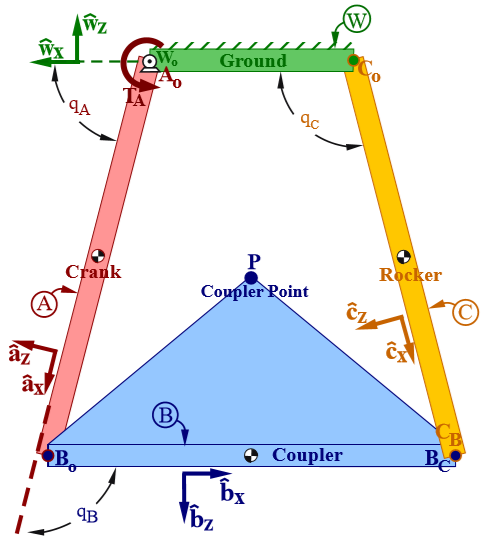
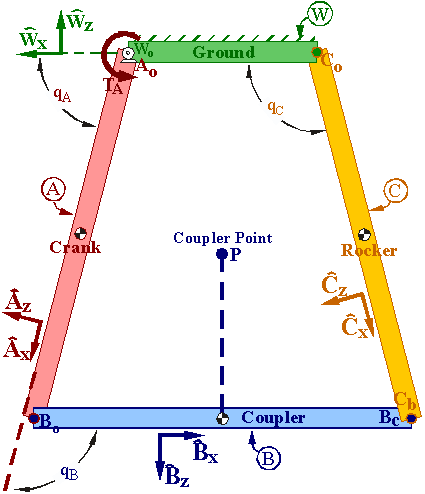
revisions from platform review

Changed region(s): [[0.0, 0.0, 1.0, 1.0]]

diff --git a/examples/multibody/four_bar/passive_simulation.cc b/examples/multibody/four_bar/passive_simulation.cc
@@ -102,11 +102,11 @@ int do_main() {
 
   // See the documentation for LinearBushingRollPitchYaw.
   // This particular choice of parameters models a z-axis revolute joint.
-  // Note: since each link is constrained to rigid motion in the X-Z plane
-  // by the revolute joints specified in the SDF, it is unnecessary for the
-  // bushing to have non-zero values for: k_y, d_y, k_0, d_0, k_1, d_1
-  // but they are left here as an example of how to parameterize a general
-  // z-axis revolute joint without other constraints.
+  // Note: since each link is constrained to rigid motion in the world X-Z
+  // plane (X-Y plane of the bushing) by the revolute joints specified in the
+  // SDF, it is unnecessary for the bushing to have non-zero values for: k_z,
+  // d_z, k_0, d_0, k_1, d_1. They are left here as an example of how to
+  // parameterize a general z-axis revolute joint without other constraints.
   const Vector3d force_stiffness_constants{k_xyz, k_xyz, k_xyz};  // N/m
   const Vector3d force_damping_constants{d_xyz, d_xyz, d_xyz};    // N·s/m
   const Vector3d torque_stiffness_constants{k_012, k_012, 0};     // N·m/rad
@@ -175,7 +175,7 @@ int do_main() {
 
 int main(int argc, char* argv[]) {
   gflags::SetUsageMessage(
-      "A four bar linkage demo demonstrating the use of a linear bushing  as "
+      "A four bar linkage demo demonstrating the use of a linear bushing as "
       "a way to model a kinematic loop. Launch drake-visualizer before running "
       "this example.");
   // Changes the default realtime rate to 1.0, so the visualization looks

diff --git a/examples/multibody/four_bar/README.md b/examples/multibody/four_bar/README.md
@@ -3,13 +3,53 @@ This planar four-bar linkage demonstrates how to use a bushing to
 approximate a closed kinematic chain. It loads an SDF model from the
 file "four_bar.sdf" into MultiBodyPlant. It handles the closed kinematic
 chain by replacing one of the four-bar's revolute (pin) joints with a
-bushing (`ForceElement::LinearBushingRollPitchYaw`) whose force  
+bushing (`ForceElement::LinearBushingRollPitchYaw`) whose force
 stiffness and damping values were approximated as discussed below.
-An alterative way to close this four-bar's kinematic chain is to "cut"
+An alternative way to close this four-bar's kinematic chain is to "cut"
 one of the four-bar's rigid links in half and join those halves with a
-bushing that has both force and torque stiffness/damping.
+bushing that has both force and torque stiffness/damping. Note: the links
+in this example are constrained to rigid motion in the world X-Z
+plane (bushing X-Y plane) by the 3 revolute joints specified in the
+SDF. Therefore it is not necessary for the bushing to have force stiffness/damping
+along the joint axis.
 
-## Four-bar linkage statics
+To run with default flags:
+
+```
+bazel run //examples/multibody/four_bar:passive_simulation
+```
+
+You should see the four-bar model oscillating passively with a small initial velocity.
+
+To change the initial velocity of `joint_WA`, q̇A in radians/second :
+```
+bazel run //examples/multibody/four_bar:passive_simulation -- --initial_velocity=<desired_velocity>
+```
+
+You can also apply a constant torque, 𝐓ᴀ, to `joint_WA` with a command line argument:
+```
+bazel run //examples/multibody/four_bar:passive_simulation -- --applied_torque=<desired_torque>
+```
+The torque is applied constantly to the joint actuator with no feedback. Thus,
+ if set high enough, you will see the system become unstable. 
+
+You can change the bushing parameters from the command line to observe their effect on
+the modeled joint. For instance, change `force_stiffness` to 300:
+ ```
+bazel run //examples/multibody/four_bar:passive_simulation -- --force_stiffness=300
+```
+And observe a gradual displacement between link *B* and link *C*.
+
+Change `force_damping` to 0:
+ ```
+bazel run //examples/multibody/four_bar:passive_simulation -- --force_damping=0
+```
+And observe the joint oscillating.
+
+Try setting `applied_torque` to 1000 and watch how the large forces interact with the bushing stiffness.
+
+
+## Four-bar linkage model
 
 The figure below shows a planar four-bar linkage consisting of 
 frictionless-pin-connected uniform rigid links *A, B, C* and ground-link *W*.
@@ -17,13 +57,13 @@ frictionless-pin-connected uniform rigid links *A, B, C* and ground-link *W*.
 - Link *B* connects to *A* and *C* at points *B*ₒ and *B*c
 - Link *C* connects to *W* and *B* at points *C*ₒ and *C*ʙ
 
-Right-handed orthogonal unit vectors **âᵢ, b̂ᵢ, ĉᵢ, ŵᵢ** 
+Right-handed orthogonal unit vectors **Âᵢ B̂ᵢ Ĉᵢ Ŵᵢ** 
 (*i = x,y,z*) are fixed in *A, B, C, W,* with:
-- **â**𝐱 directed from *A*ₒ to *B*ₒ
-- **b̂**𝐱 directed from *B*ₒ to *B*c
-- **ĉ**𝐱 directed from *C*ₒ to *C*ʙ
-- **ŵ**𝐳 vertically-upward.
-- **â**𝐲 = **b̂**𝐲 = **ĉ**𝐲 = **ŵ**𝐲 parallel to pin axes
+- **Â**𝐱 directed from *A*ₒ to *B*ₒ
+- **B̂**𝐱 directed from *B*ₒ to *B*c
+- **Ĉ**𝐱 directed from *C*ₒ to *C*ʙ
+- **Ŵ**𝐳 vertically-upward.
+- **Â**𝐲 = **B̂**𝐲 = **Ĉ**𝐲 = **Ŵ**𝐲 parallel to pin axes
 
 | Diagram of the four bar model described above. |
 | :---: |
@@ -37,14 +77,14 @@ Right-handed orthogonal unit vectors **âᵢ, b̂ᵢ, ĉᵢ, ŵᵢ**
 | Masses of *A, B, C*                               |         *m*         |   20 kg   |
 | Earth’s gravitational acceleration                |         *g*         | 9.8 m/s²  |
 |                                                   |                     |           |
-| **ŵ**𝐲 measure of motor torque on *A*             |          𝐓ᴀ        | Specified |
-| Angle from **ŵ**𝐱 to **â**𝐱 with a +**ŵ**𝐲 sense |          𝐪ᴀ         | Variable  |
-| Angle from **â**𝐱 to **b̂**𝐱 with a +**â**𝐲 sense |          𝐪ʙ         | Variable  |
-| Angle from **ŵ**𝐱 to **ĉ**𝐱 with a +**ŵ**𝐲 sense |          𝐪ᴄ         | Variable  |
+| **Ŵ**𝐲 measure of motor torque on *A*             |          𝐓ᴀ        | Specified |
+| Angle from **Ŵ**𝐱 to **Â**𝐱 with a +**Ŵ**𝐲 sense |          𝐪ᴀ         | Variable  |
+| Angle from **Â**𝐱 to **B̂**𝐱 with a +**Â**𝐲 sense |          𝐪ʙ         | Variable  |
+| Angle from **Ŵ**𝐱 to **Ĉ**𝐱 with a +**Ŵ**𝐲 sense |          𝐪ᴄ         | Variable  |
 |                                                   |                     |           |
-| "Coupler-point" *P*'s position from *B*ₒ          |         2 **b̂**𝐱 - 2 **b̂**𝐳     |
+| "Coupler-point" *P*'s position from *B*ₒ          |         2 **B̂**𝐱 - 2 **B̂**𝐳     |
 
-With 𝐓ᴀ = 0, the equilibrium values for the angles are: 
+With 𝐓ᴀ = 0, the equilibrium values for the angles are:
 𝐪ᴀ ≈ 75.52°, 𝐪ʙ ≈ 104.48°, 𝐪ᴄ ≈ 104.48°.
 
 ## Starting Configuration
@@ -52,7 +92,7 @@ With 𝐓ᴀ = 0, the equilibrium values for the angles are:
 The SDF defines all of the links with their x axes parallel to the world x
 axis for convenience of measuring the angles in the state of the system
 with respect to a fixed axis. Below we derive a valid initial configuration
-of the three angles `q_A`, `q_B`, and `q_C`.
+of the three angles 𝐪ᴀ, 𝐪ʙ, and 𝐪ᴄ.
 
 | Derivation of starting configuration |
 | :---: |
@@ -61,25 +101,47 @@ of the three angles `q_A`, `q_B`, and `q_C`.
 
 Due to equal link lengths, the initial condition (static equilibrium) 
 forms an isosceles trapezoid and initial values can be determined from
-trigonometry. `q_A` is one angle of a right triangle with its adjacent
+trigonometry. 𝐪ᴀ is one angle of a right triangle with its adjacent
 side measuring 1 m and its hypotenuse measuring 4 m.  Hence, initially
-  `q_A = atan(sqrt(15)) ≈ 1.318 radians ≈ 104.48°`.
+𝐪ᴀ = tan⁻¹(√15) ≈ 1.318 radians ≈ 104.48°.
 
-Because link B is parallel to `W_x`, `q_A` and `q_B` are supplementary,
-hence the initial value is `q_B = M_PI - q_A ≈ 1.823 radians ≈ 75.52°`.
-Similarly, `q_A` and `q_C` are supplementary, so initially `q_C = q_B`. 
+Because link *B* is parallel to **Ŵ**𝐱, 𝐪ᴀ and 𝐪ʙ are supplementary,
+hence the initial value is 𝐪ʙ = π - 𝐪ᴀ ≈ 1.823 radians ≈ 75.52°.
+Similarly, 𝐪ᴀ and 𝐪ᴄ are supplementary, so initially 𝐪ᴄ = 𝐪ʙ. 
 
-## Modeling the revolute joint between links B and C with a bushing
+# Modeling the revolute joint between links B and C with a bushing
 
 In this example, we replace the pin joint at point **Bc** (see diagram)
-that connects links **B** and **C** with a `LinearBushingRollPitchYaw`
-`ForceElement` (there are many other uses of a bushing).  We model a
-z-axis revolute joint by setting torque stiffness constant k₂ = 0 and 
-torque damping constant d₂ = 0.  We chose the z-axis (Yaw) to avoid 
-a singularity associated with "gimbal lock". Two frames (one attached to
-**B** called `Bc_Bushing` with origin at point **Bc** and one attached to
-**C** called `Cb_Bushing` with origin at point **Cb**) are oriented so
-their z-axes are perpedicular to the planar four-bar linkage.
+that connects links *B* and *C* with a 
+`ForceElement::LinearBushingRollPitchYaw`(there are many other uses of a 
+bushing).  We model a z-axis revolute joint by setting torque stiffness 
+constant k₂ = 0 and  torque damping constant d₂ = 0.  We chose the 
+z-axis (Yaw) to avoid a singularity associated with "gimbal lock". 
+Two frames (one attached to *B* called `Bc_Bushing` with origin at point 
+**Bc** and one attached to *C* called `Cb_Bushing` with origin at point 
+**Cb**) are oriented so their z-axes are perpedicular to the planar 
+four-bar linkage.
+
+## Estimating bushing parameters
+Joints are normally modeled with hard constraints except in their motion 
+direction, and three of the four revolute joints here are indeed modeled 
+that way. However, in order to close the kinematic loop we have to use a 
+bushing as "penalty method" substitute for hard constraints. That is, because 
+the bushing is compliant it will violate the constraint to some degree. The 
+stiffer we make it, the more precisely it will enforce the constraint but 
+the more difficult the problem will be to solve numerically. We want to 
+choose stiffness k and damping d for the bushing to balance those 
+considerations. First, consider your tolerance for constraint errors -- if 
+the joint allows deviations of 1mm (say) would that be OK for your application?
+Similarly, would angular errors of 1 degree (say) be tolerable? We will give 
+a procedure below for estimating a reasonable value of k to achieve a 
+specified translational and rotational tolerance. Similarly, we need to choose
+d to damp out oscillations caused by the stiff spring in a "reasonable" time.
+Consider a time scale you would consider negligible. Perhaps a settling time
+of 1ms (say) would be ignorable for your robot arm, which presumably has
+much larger time constants for important behaviors. We will give a 
+procedure here for obtaining a reasonable d from k and your settling 
+time tolerance.
 
 ## Estimate force stiffness [kx ky kz] from loading/displacement
 The bushing's force stiffness constants [kx ky kz] can be 
@@ -89,7 +151,8 @@ direction (e.g., xMax), estimate a maximum directional load (Fx) that
 combines gravity forces, applied forces, inertia forces (centripetal,
 Coriolus, gyroscopic), and then calculate kx ≈ Fx / xMax.  
 
-## Estimate force stiffness constants from mass and ωₙ
+
+## Estimate force stiffness [kx ky kz] constants from mass and ωₙ
 The bushing's force stiffness constants [kx ky kz] can be
 approximated via a related linear constant-coefficient 2ⁿᵈ-order ODE:
 
@@ -104,7 +167,7 @@ One way to pick ωₙ is to choose a settling_time which approximates the
 desired time for the bushing to settle to within 5% of an equilibrium
 solution, use ωₙ ≈ 5 / settling_time, and then k ≈ m ωₙ².
 
-## Affect of stiffness [kx ky kz] on simulation time and accuracy
+## Effect of stiffness [kx ky kz] on simulation time and accuracy
 Generally, a stiffer bushing more closely resembles an ideal revolute 
 joint. However (depending on integrator) a stiffer bushing increase 
 numerical integration time.
@@ -122,8 +185,8 @@ that has both force and torque stiffness/damping.  If this technique
 is used, torque stiffness is needed.  One way to approximate torque
 stiffness is with concepts similar to the force stiffness above.
 For example, the bushing's torque stiffness k₀ could be calculated 
-by specifing a maximum bushing angular displacement θ₀Max, estimating
-a maximum moment load Mx and calculating k₀ = Mx / θ₀Max.    
+by specifing a maximum bushing angular displacement θₘₐₓ, estimating
+a maximum moment load Mx and calculating k₀ = Mx / θₘₐₓ.
 Alternatively, a value for k₀ can be determined by choosing a 
 characteristic moment of inertia I₀ (which is directionally dependent)
 and then choosing ωₙ (e.g., from setting_time), then using k₀ ≈ m ωₙ².
